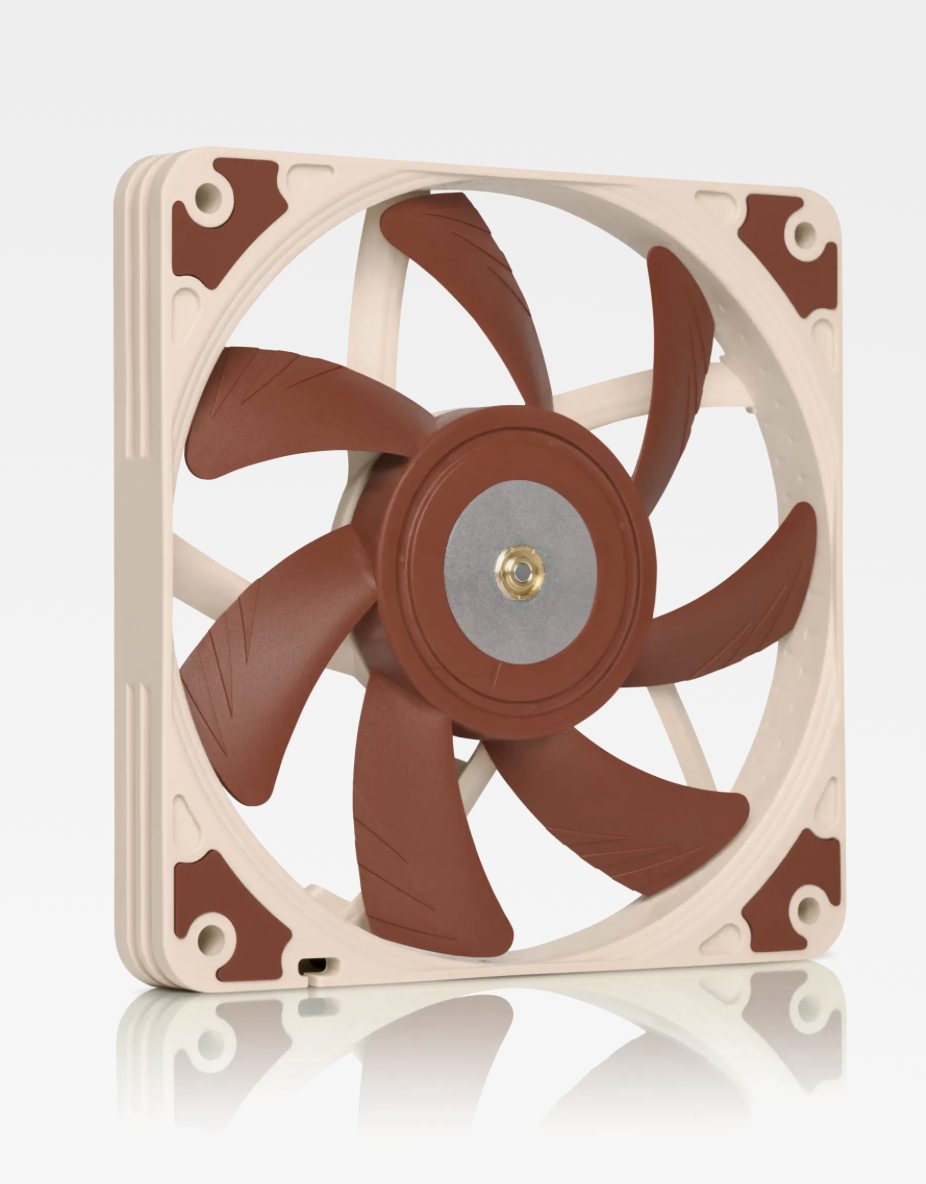
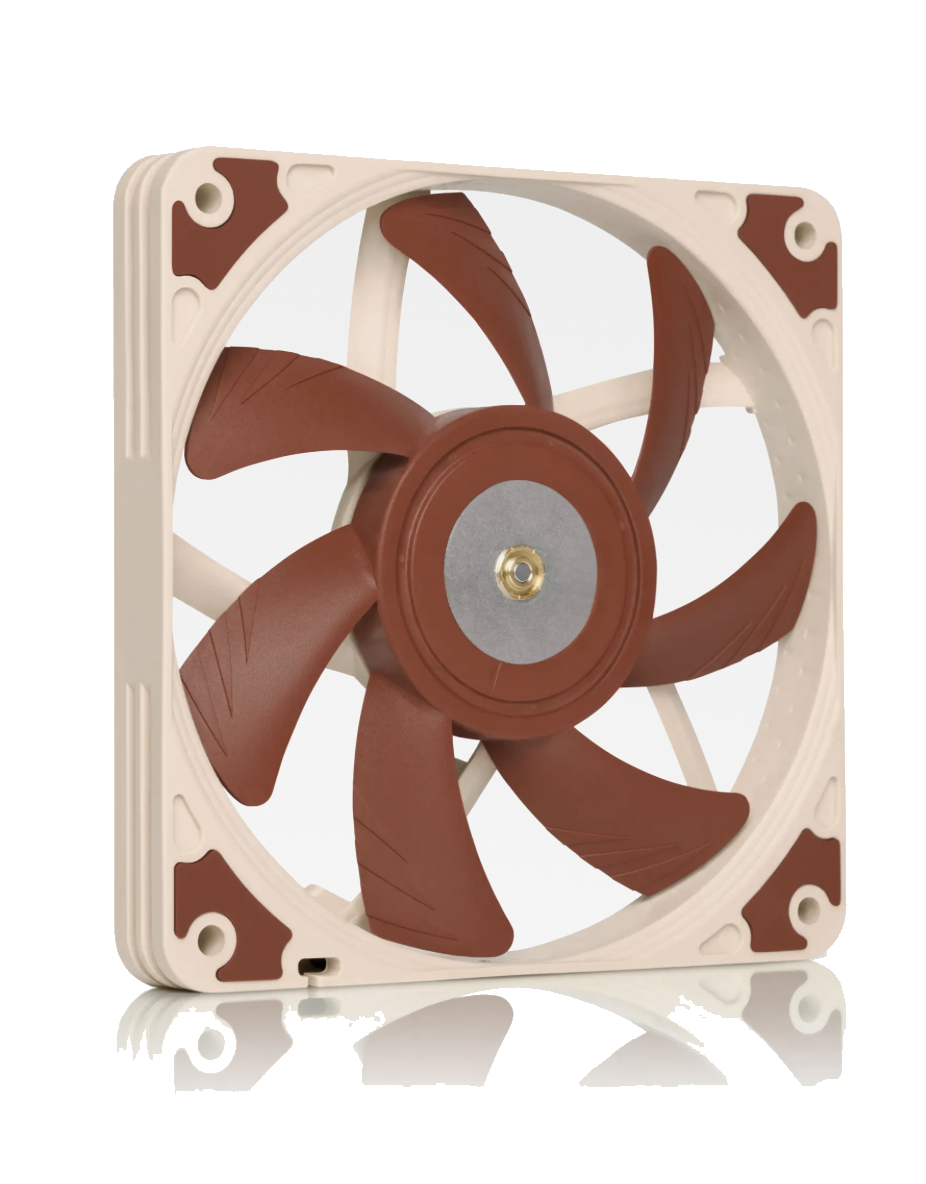
fix(stocks-sjer-red): improve mobile portfolio polish

diff --git a/packages/stocks-sjer-red/src/styles/global.css b/packages/stocks-sjer-red/src/styles/global.css
@@ -4,6 +4,7 @@
   --color-bg: #0a0a0a;
   --color-panel: #111111;
   --color-line: #1f1f1f;
+  --color-product-bg: #2b2f36;
   --color-text: #d4d4d4;
   --color-muted: #6b6b6b;
   --color-up: #00ff88;
@@ -41,6 +42,12 @@ a:hover {
 
 .chart-svg.chart-interactive {
   cursor: crosshair;
+  touch-action: pan-y;
+  -webkit-tap-highlight-color: transparent;
+}
+
+.chart-hit-area {
+  pointer-events: all;
 }
 
 .chart-overlay {
@@ -51,6 +58,10 @@ a:hover {
 
 .chart-hover .chart-overlay {
   opacity: 1;
+}
+
+.chart-touching .chart-crosshair {
+  stroke: var(--color-amber);
 }
 
 .chart-tooltip {
@@ -72,6 +83,11 @@ a:hover {
   opacity: 1;
 }
 
+.chart-touching .chart-tooltip {
+  border-color: color-mix(in srgb, var(--color-amber) 45%, var(--color-line));
+  box-shadow: 0 4px 18px rgba(0, 0, 0, 0.7);
+}
+
 .chart-tooltip-date {
   color: var(--color-muted);
   font-size: 0.6875rem;
@@ -84,6 +100,18 @@ a:hover {
   font-weight: 600;
 }
 
+@media (pointer: coarse) {
+  .chart-svg.chart-interactive {
+    cursor: default;
+  }
+
+  .chart-tooltip {
+    padding: 0.5rem 0.75rem;
+    text-align: center;
+    min-width: 8rem;
+  }
+}
+
 /* ------------------------------------------------------------------ */
 /* Row product thumbnail                                               */
 /* ------------------------------------------------------------------ */
@@ -91,7 +119,7 @@ a:hover {
   width: 40px;
   height: 40px;
   object-fit: contain;
-  background: #111;
+  background: var(--color-product-bg);
   border: 1px solid var(--color-line);
   border-radius: 4px;
   display: block;
@@ -107,13 +135,67 @@ a:hover {
 }
 
 .detail-hero-image {
-  width: 96px;
-  height: 96px;
+  width: 72px;
+  height: 72px;
   object-fit: contain;
-  background: #111;
+  background: var(--color-product-bg);
   border: 1px solid var(--color-line);
   border-radius: 6px;
   flex-shrink: 0;
+}
+
+@media (min-width: 640px) {
+  .detail-hero-image {
+    width: 96px;
+    height: 96px;
+  }
+}
+
+/* ------------------------------------------------------------------ */
+/* Mobile position cards                                               */
+/* ------------------------------------------------------------------ */
+.mobile-position-row {
+  display: block;
+  padding: 1rem;
+}
+
+.mobile-position-main {
+  display: grid;
+  grid-template-columns: 40px minmax(0, 1fr);
+  gap: 0.75rem;
+  align-items: start;
+}
+
+.mobile-position-metrics {
+  display: grid;
+  grid-template-columns: repeat(2, minmax(0, 1fr));
+  gap: 0.625rem 1rem;
+  margin-top: 0.875rem;
+  padding-top: 0.75rem;
+  border-top: 1px solid var(--color-line);
+  font-size: 0.8125rem;
+  line-height: 1.25;
+  text-align: left;
+}
+
+@media (min-width: 360px) {
+  .mobile-position-metrics {
+    grid-template-columns: repeat(4, minmax(0, 1fr));
+    gap: 0.5rem;
+    text-align: right;
+  }
+
+  .mobile-position-metrics > div:first-child {
+    text-align: left;
+  }
+}
+
+.mobile-metric-label {
+  margin-bottom: 0.125rem;
+  color: var(--color-muted);
+  font-size: 0.625rem;
+  letter-spacing: 0.05em;
+  text-transform: uppercase;
 }
 
 /* ------------------------------------------------------------------ */

diff --git a/packages/docs/logs/2026-05-24_stocks-sjer-red.md b/packages/docs/logs/2026-05-24_stocks-sjer-red.md
@@ -139,3 +139,63 @@ Not addressed in this session. Site is just `bun run build` → `dist/`. The `st
 - Don't trust the price-history numbers to the dollar — they're chart-pixel reads
 - The "+$8,762 P&L" is on paper only; user has not actually sold any RAM at the spike
 - Building with `astro check` will fail loudly if anyone introduces bad JSON
+
+## Session Log — 2026-05-24
+
+### Done
+
+- Fixed the mobile index layout in `packages/stocks-sjer-red/src/pages/index.astro` by replacing the cramped phone table with tappable position cards below the `sm` breakpoint.
+- Updated `packages/stocks-sjer-red/src/styles/global.css` with responsive mobile-card metric grids, including a two-column layout for narrow 320px phones and four columns for wider phones.
+- Fixed the per-position detail hero in `packages/stocks-sjer-red/src/pages/[slug]/index.astro` so the image/title block and price block stack cleanly on phones instead of squeezing the title into a vertical column.
+- Verified in the in-app browser at 320px, 375px, and desktop widths; mobile pages now report no horizontal document overflow.
+- Ran `bun run build`, `bun run test`, and `bun run lint` in `packages/stocks-sjer-red`.
+
+### Remaining
+
+- None for the requested mobile cleanup.
+
+### Caveats
+
+- The package still has no real test suite; `bun run test` currently prints `No tests yet`.
+- I used the installed Bun binary directly because invoking the mise shim tried to persist repo trust outside the sandbox.
+
+## Session Log — 2026-05-24
+
+### Done
+
+- Improved phone chart interactions in `packages/stocks-sjer-red/src/components/StockChart.astro` by switching from mouse/touch split handlers to pointer-aware interaction.
+- Added a full plot-area hit rectangle so the chart responds across the graph surface, not only near rendered SVG paths.
+- Added mobile-specific behavior: larger marker, amber crosshair while touching, docked tooltip placement inside the chart, and short tooltip persistence after lifting a finger.
+- Updated `packages/stocks-sjer-red/src/styles/global.css` with chart touch-action, tap-highlight removal, touch tooltip styling, and hit-area pointer behavior.
+- Verified the portfolio chart at a 375px phone viewport in the in-app browser; tooltip stayed inside the chart and the page had no horizontal overflow.
+- Ran `bun run build`, `bun run lint`, and `bun run test` in `packages/stocks-sjer-red`.
+
+### Remaining
+
+- None for the requested chart interaction polish.
+
+### Caveats
+
+- Browser verification exercised the rendered phone viewport and desktop pointer path; the touch-specific path is implemented with standard pointer events, but the in-app browser does not expose a true coarse-pointer touchscreen.
+- The package still has no real test suite; `bun run test` currently prints `No tests yet`.
+
+## Session Log — 2026-05-24
+
+### Done
+
+- Localized all product thumbnails for `packages/stocks-sjer-red` so the portfolio no longer depends on remote PCPartPicker/Amazon image URLs.
+- Removed connected near-white backgrounds from the product thumbnails with ImageMagick, preserving product-internal white details by using corner flood-fill transparency instead of global white deletion.
+- Stored processed transparent PNGs under `packages/stocks-sjer-red/public/images/` and moved original source downloads to `packages/stocks-sjer-red/src/assets/product-image-sources/`.
+- Updated `packages/stocks-sjer-red/src/data/components.json` to reference local cutout assets.
+- Added `--color-product-bg` in `packages/stocks-sjer-red/src/styles/global.css` and applied it to thumbnail/detail image frames for a gray product backdrop.
+- Verified mobile index, desktop index, and mobile detail views in the in-app browser; images loaded from local paths and no horizontal overflow was introduced.
+- Ran `bun run build`, `bun run lint`, and `bun run test` in `packages/stocks-sjer-red`.
+
+### Remaining
+
+- None for the requested image-background pass.
+
+### Caveats
+
+- The source thumbnails remain in the repo for future reprocessing, but they are outside `public/` and are not served by the site.
+- `bun run test` still only prints `No tests yet`.